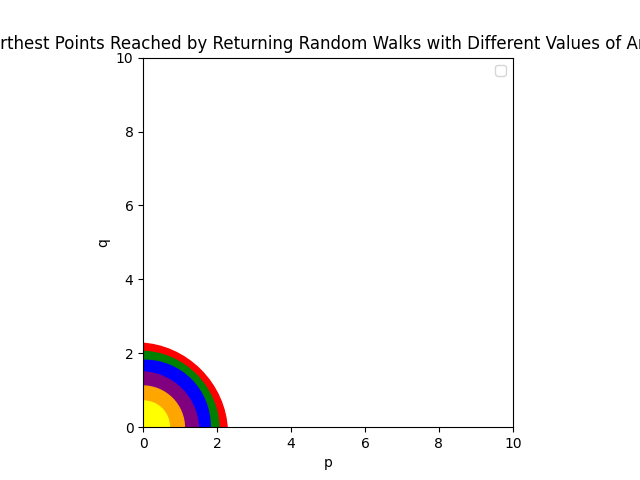
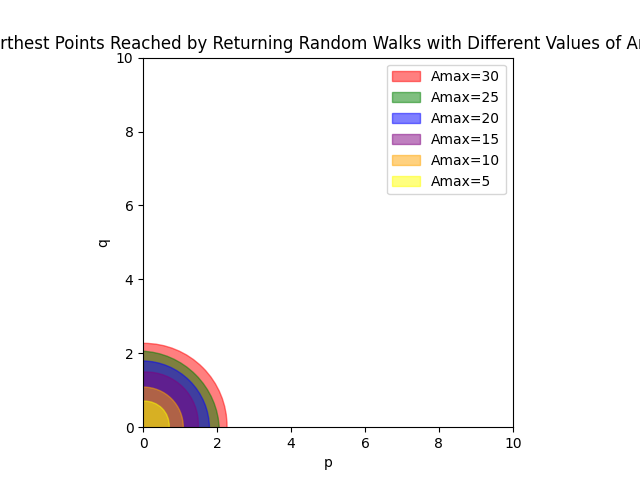
updating

Changed region(s): [[0.5938, 0.125, 0.7812, 0.4062], [0.2188, 0.7188, 0.375, 0.9062]]

diff --git a/thomasrun/test_gluon_walker/pq_countour.py b/thomasrun/test_gluon_walker/pq_countour.py
@@ -32,16 +32,18 @@ ax.set_xlim(0,10)
 ax.set_ylim(0,10)
 ax.set_title("Furthest Points Reached by Returning Random Walks with Different Values of Amax")
 colors = ["red","green","blue","purple","orange","yellow"]
+handles = []
+labels = []
 for i in range(len(Amax_list)):
     Amax = Amax_list[len(Amax_list)-(i+1)]
     p = max_dist_array[(max_dist_array[:,2]==Amax),0]
     q = max_dist_array[(max_dist_array[:,2]==Amax),1]
     p_width = np.average(p)
     q_height = np.average(q)
-    print(p_width)
-    print(q_height)
-    el = matplotlib.patches.Ellipse((0,0), p_width, q_height, angle=45, color=colors[i],edgecolor="black",label="Amax="+str(Amax))
+    labels.append("Amax="+str(Amax))
+    el = matplotlib.patches.Ellipse((0,0), p_width, q_height, angle=45, color=colors[i],edgecolor="black",alpha=0.5)
+    handles.append(el)
     ax.add_artist(el)
 plt.show()
-ax.legend()
+ax.legend(handles,labels)
 plt.savefig("plots/contour.png")
